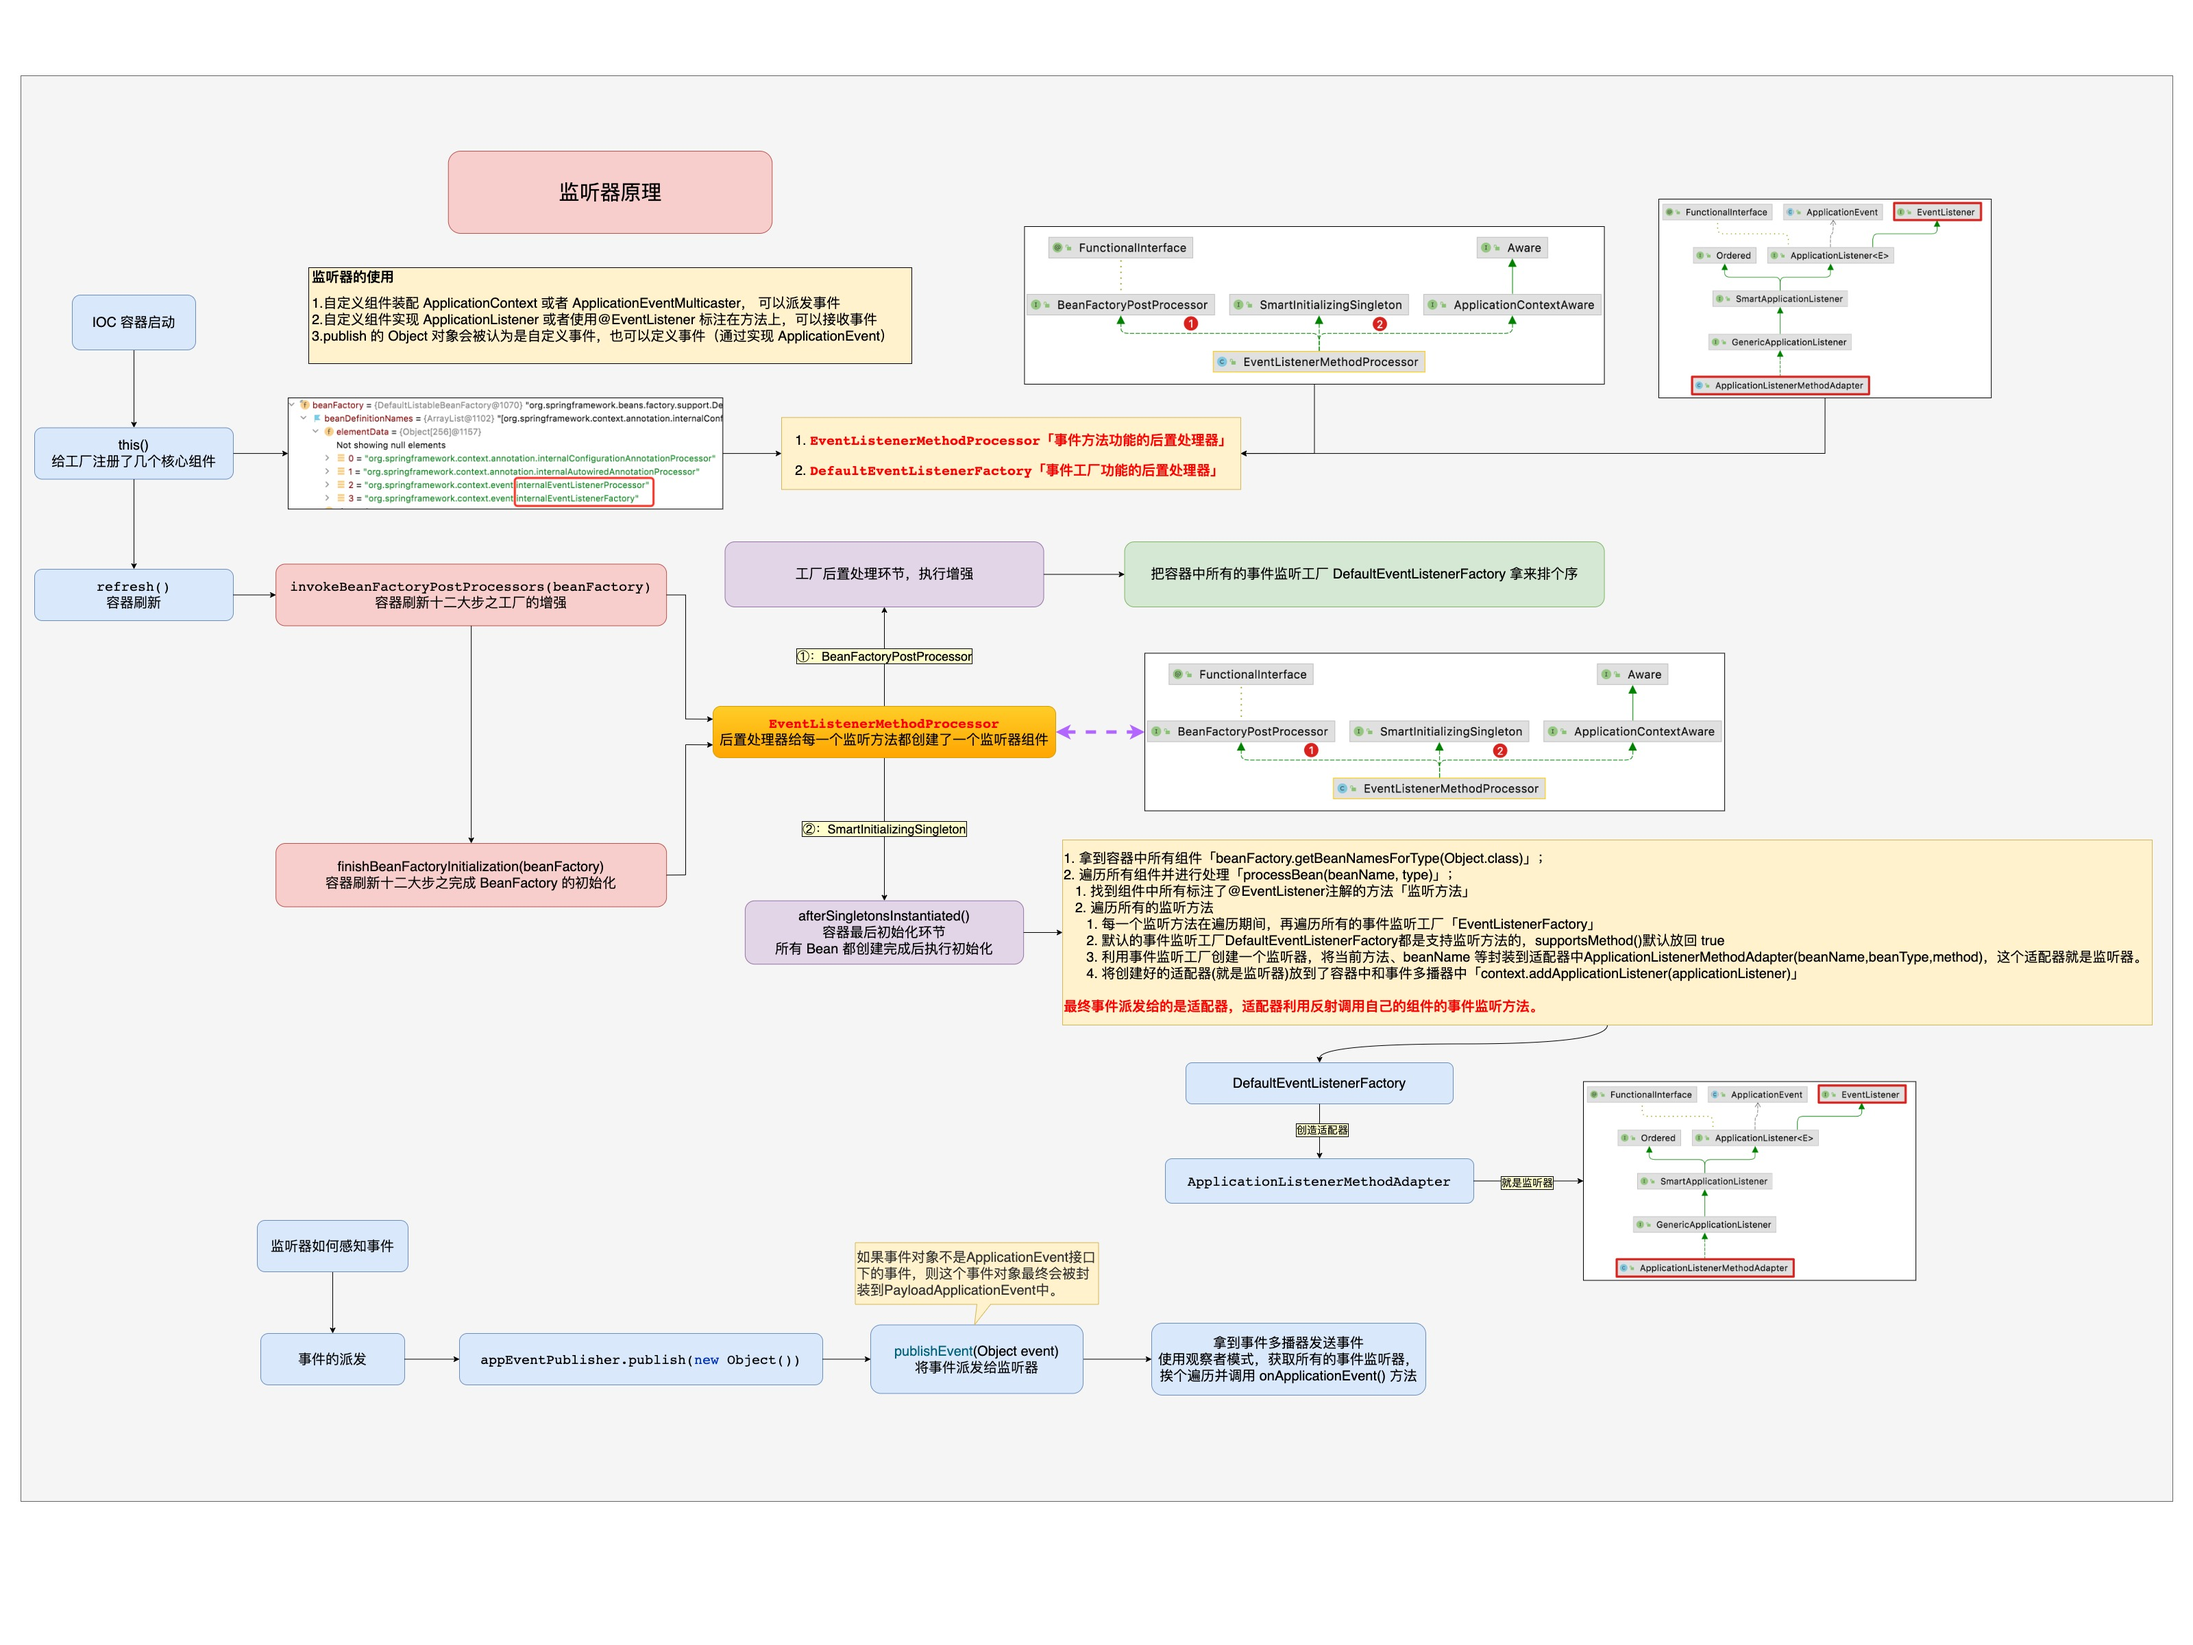
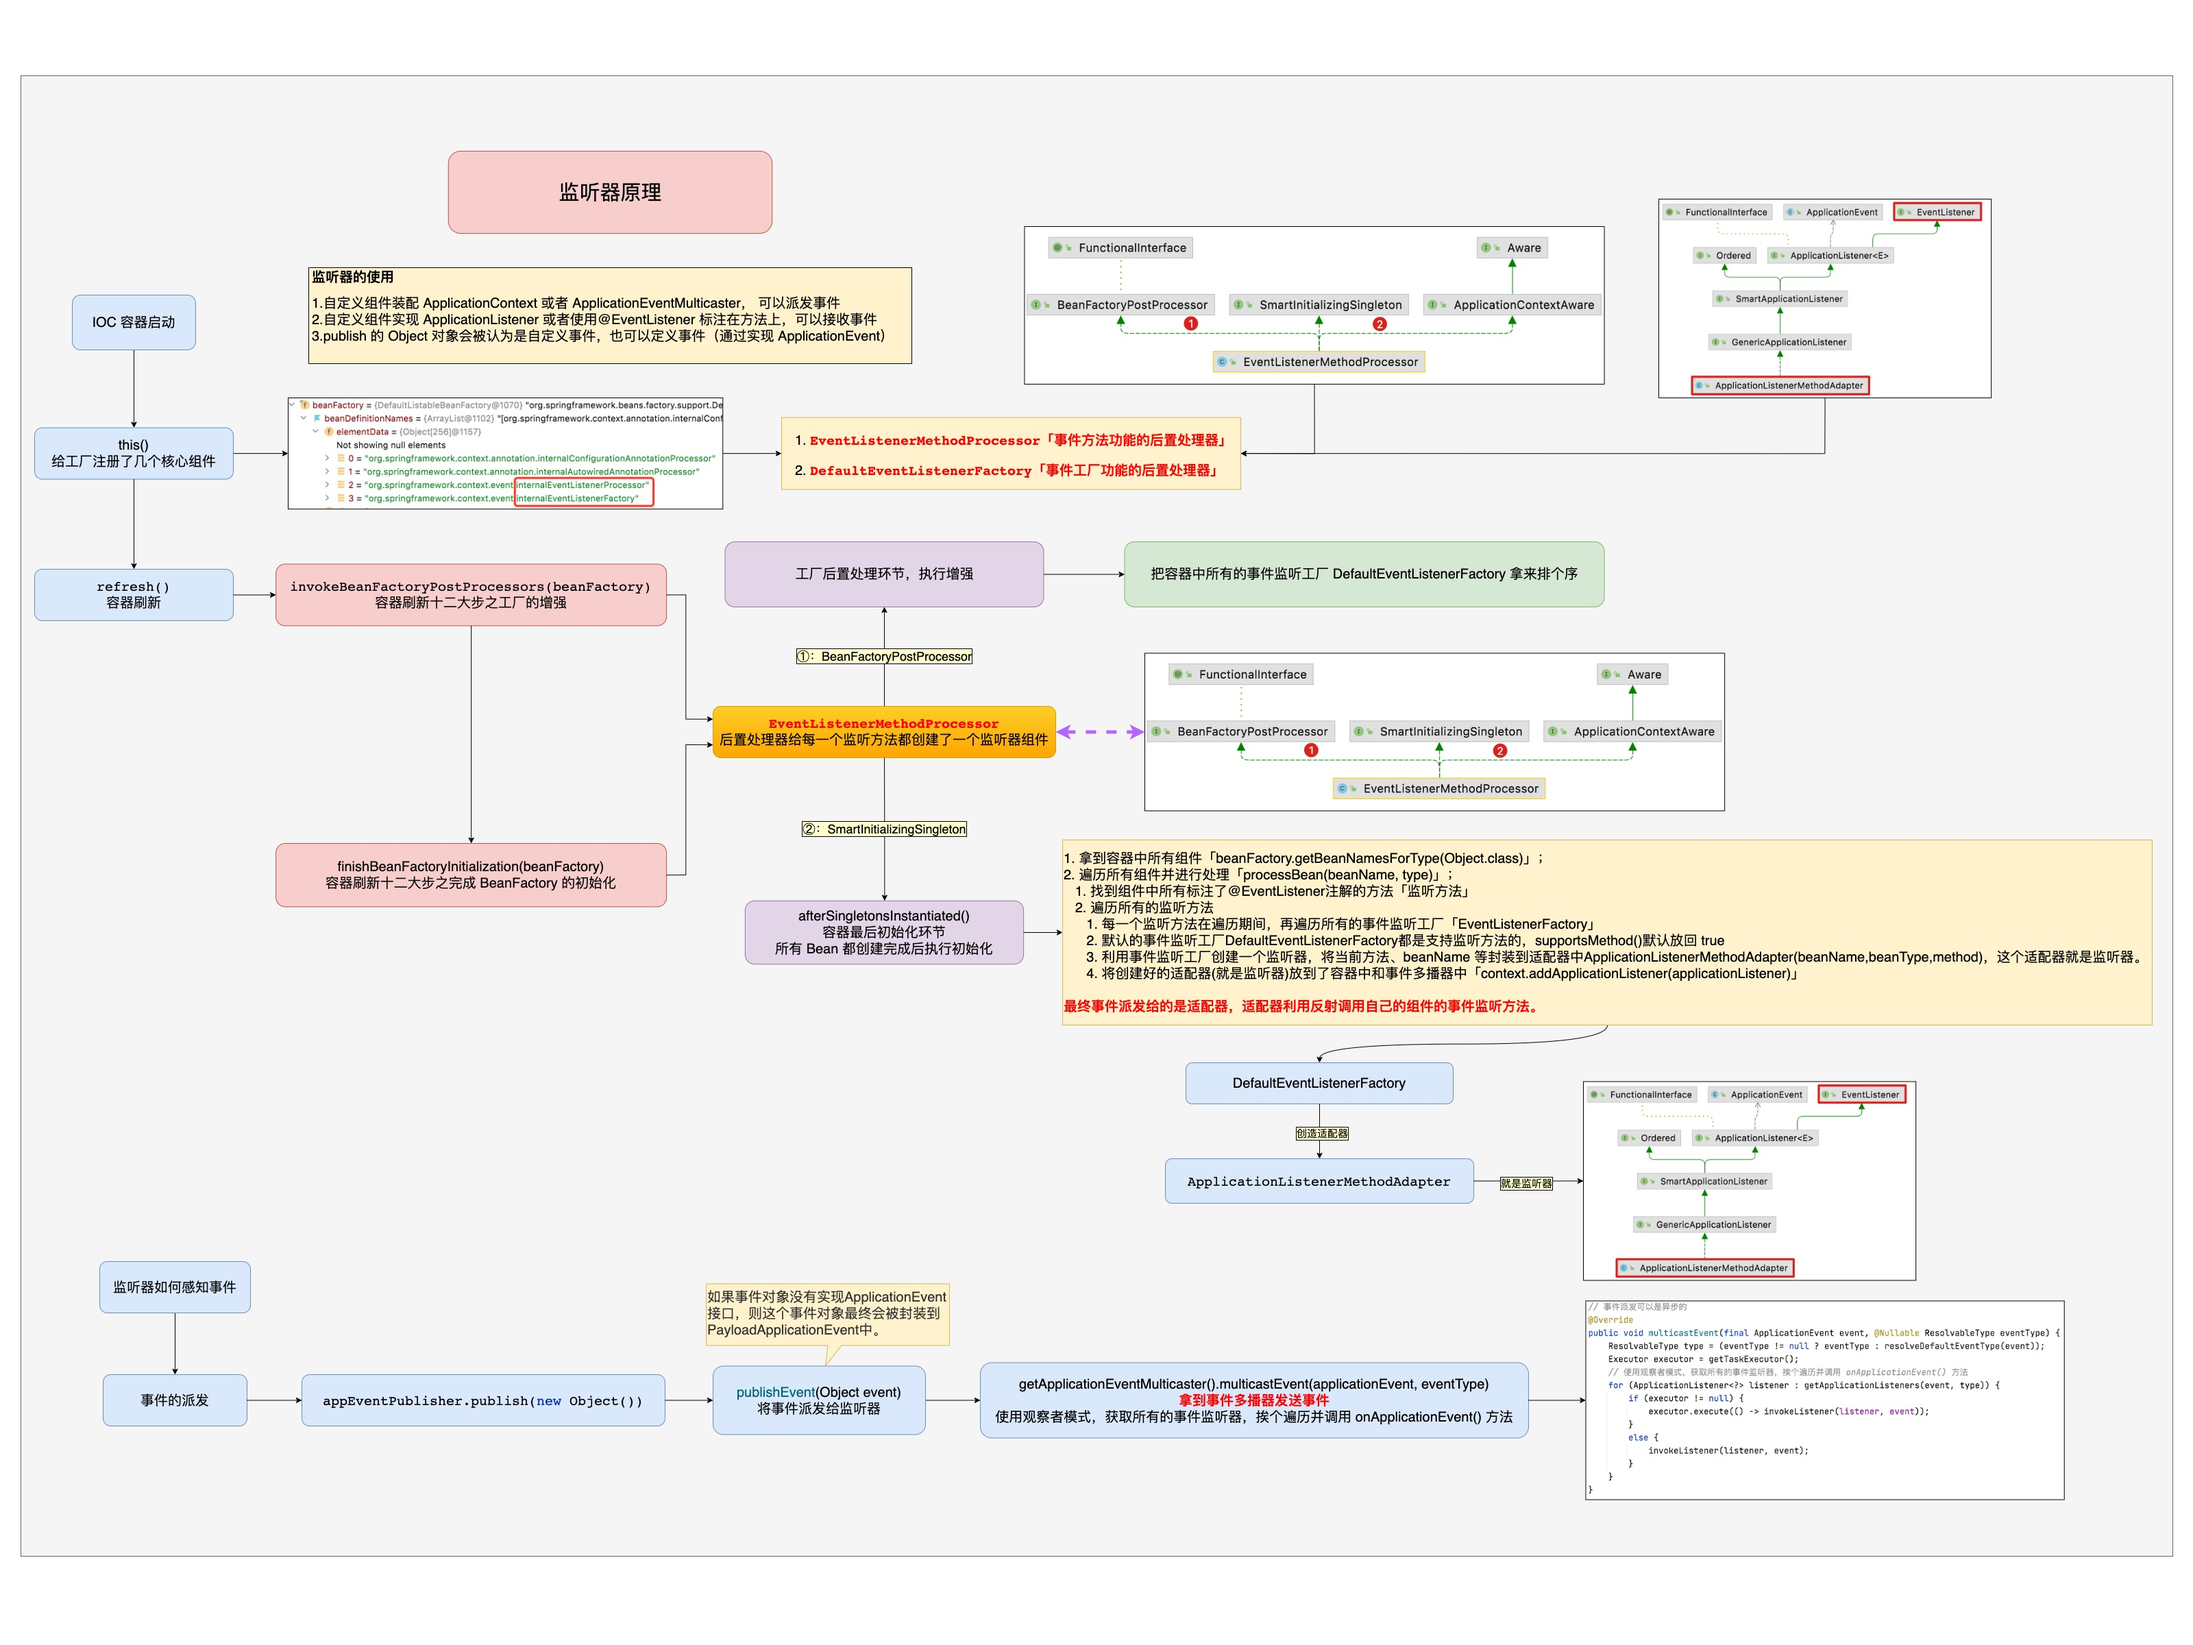
update

Changed region(s): [[0.0312, 0.7188, 0.9062, 0.875]]

diff --git a/spring-context/src/main/java/org/springframework/context/support/AbstractApplicationContext.java b/spring-context/src/main/java/org/springframework/context/support/AbstractApplicationContext.java
@@ -406,11 +406,11 @@ public abstract class AbstractApplicationContext extends DefaultResourceLoader
 		// Decorate event as an ApplicationEvent if necessary
 		ApplicationEvent applicationEvent;
 		if (event instanceof ApplicationEvent) {
-			// ApplicationEvent 接口下的事件
+			// 若事件实现了ApplicationEvent接口，则将事件封装成ApplicationEvent
 			applicationEvent = (ApplicationEvent) event;
 		}
 		else {
-			// 任意对象作为事件最终被封装到了 PayloadApplicationEvent 中
+			// 没有实现ApplicationEvent接口的任意对象作为事件最终被封装到了 PayloadApplicationEvent 中
 			applicationEvent = new PayloadApplicationEvent<>(this, event);
 			if (eventType == null) {
 				eventType = ((PayloadApplicationEvent<?>) applicationEvent).getResolvableType();
@@ -576,13 +576,15 @@ public abstract class AbstractApplicationContext extends DefaultResourceLoader
 				// 初始化，国际化组件。「观察容器中是否含有MessageResource的定义信息，如果没有就注册一个」Initialize message source for this context.
 				initMessageSource();
 
-				// 初始化事件多播功能「事件派发」。「观察容器中是否有id为applicationEventMulticaster的定义信息，如果没有就注册一个事件多播组件SimpleApplicationEventMulticaster放到单例池中」Initialize event multicaster for this context.
+				// 初始化事件多播功能「之后注册的监听器和发布事件都是基于该事件多播器执行的」。
+				// 判断容器中是否有id为applicationEventMulticaster的定义信息，如果没有就注册一个事件多播组件SimpleApplicationEventMulticaster放到单例池中。Initialize event multicaster for this context.
 				initApplicationEventMulticaster();
 
 				// 留给子类继续增强处理逻辑「模板模式」。Initialize other special beans in specific context subclasses.
 				onRefresh();
 
-				// 注册监听器，关联Spring的事件监听机制。「将容器中所有的监听器 ApplicationListener 保存进多播器集合中」 Check for listener beans and register them.
+				// 注册监听器，关联Spring的事件监听机制。
+				// 将容器中所有的监听器 ApplicationListener 保存进多播器集合中。Check for listener beans and register them.
 				registerListeners();
 
 				// bean 的创建：完成 BeanFactory 的初始化。「详细参照 Bean 的初始化流程，再执行所有后初始化操作」「SmartInitializingSingleton.afterSingletonsInstantiated」。 Instantiate all remaining (non-lazy-init) singletons.
@@ -811,6 +813,7 @@ public abstract class AbstractApplicationContext extends DefaultResourceLoader
 	 */
 	protected void initApplicationEventMulticaster() {
 		ConfigurableListableBeanFactory beanFactory = getBeanFactory();
+		// 判断容器中是否有id为applicationEventMulticaster的定义信息，如果没有就注册一个事件多播组件SimpleApplicationEventMulticaster放到单例池中
 		if (beanFactory.containsLocalBean(APPLICATION_EVENT_MULTICASTER_BEAN_NAME)) {
 			this.applicationEventMulticaster =
 					beanFactory.getBean(APPLICATION_EVENT_MULTICASTER_BEAN_NAME, ApplicationEventMulticaster.class);
@@ -819,8 +822,8 @@ public abstract class AbstractApplicationContext extends DefaultResourceLoader
 			}
 		}
 		else {
+			// 容器中没有id为applicationEventMulticaster的定义信息，则注册一个事件派发器(SimpleApplicationEventMulticaster)
 			this.applicationEventMulticaster = new SimpleApplicationEventMulticaster(beanFactory);
-			// 注册一个事件派发器
 			beanFactory.registerSingleton(APPLICATION_EVENT_MULTICASTER_BEAN_NAME, this.applicationEventMulticaster);
 			if (logger.isTraceEnabled()) {
 				logger.trace("No '" + APPLICATION_EVENT_MULTICASTER_BEAN_NAME + "' bean, using " +
@@ -877,14 +880,14 @@ public abstract class AbstractApplicationContext extends DefaultResourceLoader
 		}
 
 		// Do not initialize FactoryBeans here: We need to leave all regular beans
-		// 获取容器中所有 ApplicationListener 类型的组件的名字 uninitialized to let post-processors apply to them!
+		// 获取容器中所有 ApplicationListener 类型的组件的名字. uninitialized to let post-processors apply to them!
 		String[] listenerBeanNames = getBeanNamesForType(ApplicationListener.class, true, false);
 		// 将所有的监听器保存在多播器的集合中
 		for (String listenerBeanName : listenerBeanNames) {
 			getApplicationEventMulticaster().addApplicationListenerBean(listenerBeanName);
 		}
 
-		// 派发之前积攒的一些早期事件。Publish early application events now that we finally have a multicaster...
+		// 派发之前保存一些早期事件(earlyApplicationEvents)。Publish early application events now that we finally have a multicaster...
 		Set<ApplicationEvent> earlyEventsToProcess = this.earlyApplicationEvents;
 		this.earlyApplicationEvents = null;
 		if (!CollectionUtils.isEmpty(earlyEventsToProcess)) {
